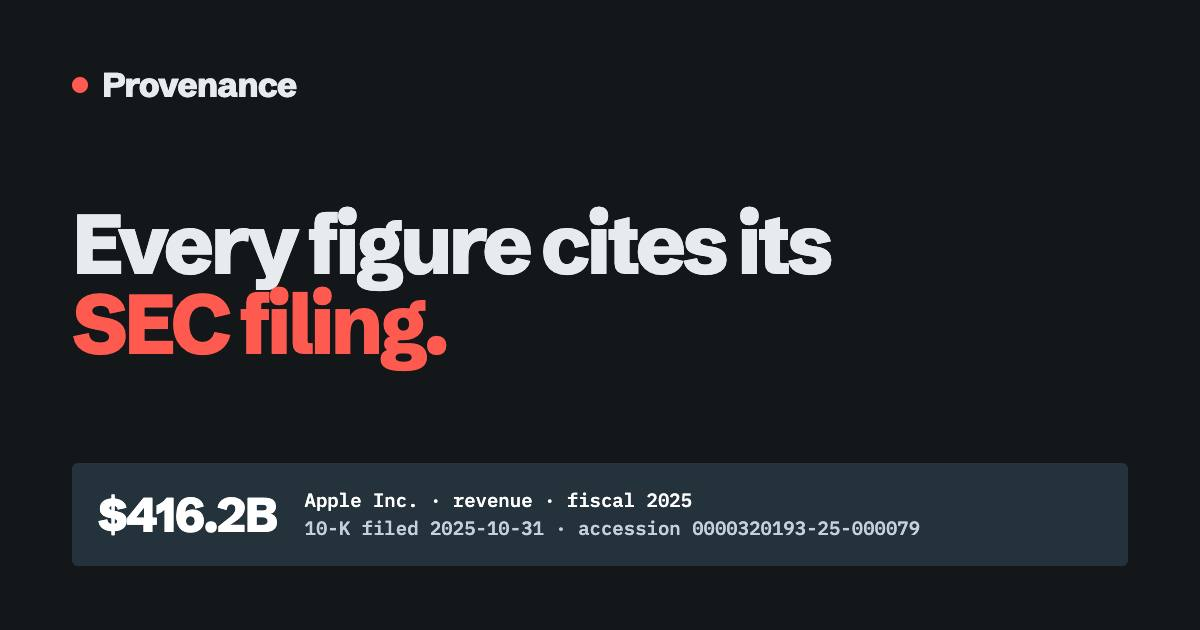
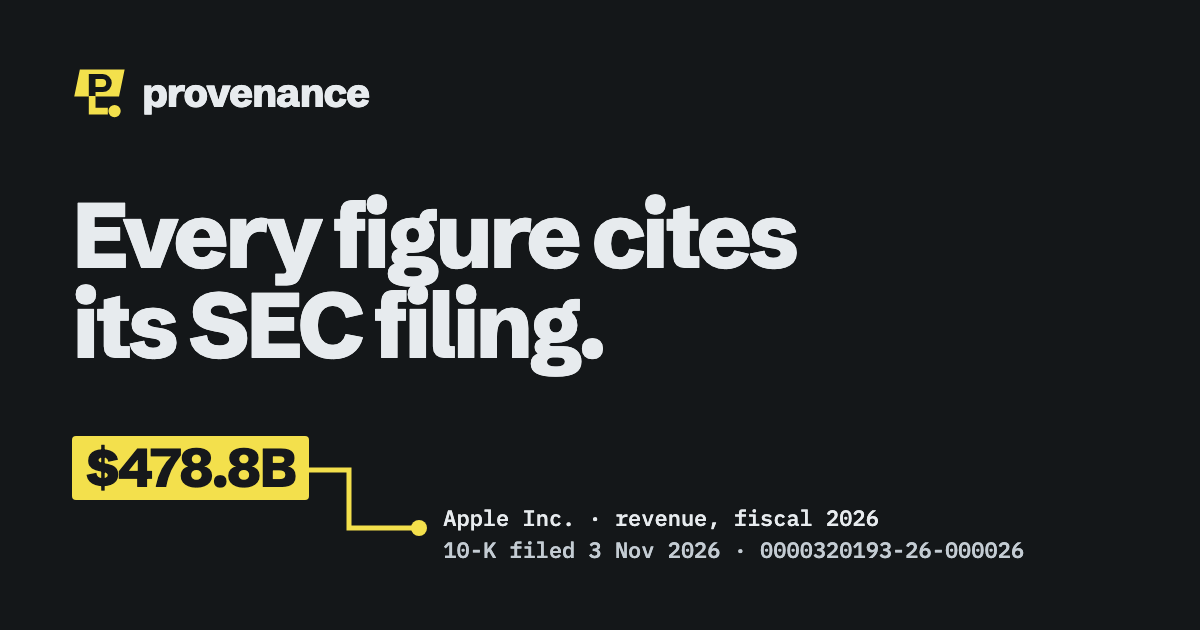
B-3 brand: the link preview rebuilt from a template (scripts/brand/og.html, one highlight on Apple's FY2026 revenue with its leader to the 10-K); the UI check fails any figure drawn in the marker yellow (text or chart label; only the highlight may be yellow) and the Explorer overview runs in all fou

Changed region(s): [[0.0617, 0.6937, 0.9558, 0.9048], [0.0617, 0.3016, 0.7092, 0.6032], [0.0617, 0.0905, 0.3083, 0.181]]

diff --git a/scripts/brand/og.html b/scripts/brand/og.html
@@ -1,0 +1,28 @@
+<!doctype html>
+<!-- The link-preview image (site/img/og.png, 1200×630), brand: Trace. One highlight only, on the figure, with its leader to the filing. Render with scripts/brand/render_og.sh.
+     The figure is real: Apple's fiscal 2026 revenue as the API returns it, cited to its 10-K. -->
+<html lang="en"><head><meta charset="utf-8"><title>og</title>
+<style>
+  @font-face { font-family: 'Schibsted Grotesk'; font-weight: 400 800; src: url('../../site/fonts/schibsted-grotesk-latin-var.woff2') format('woff2'); }
+  @font-face { font-family: 'IBM Plex Mono'; font-weight: 500; src: url('../../site/fonts/ibm-plex-mono-latin-500.woff2') format('woff2'); }
+  * { box-sizing: border-box; margin: 0; }
+  html, body { width: 1200px; height: 630px; background: #141719; color: #e7ebee; font-family: 'Schibsted Grotesk', Arial, sans-serif; overflow: hidden; }
+  .wrap { position: relative; height: 100%; padding: 64px 72px; }
+  .logo { display: flex; align-items: center; gap: 14px; font-weight: 800; font-size: 40px; letter-spacing: -0.03em; }
+  .logo svg { width: 56px; height: 56px; color: #f3e04c; }
+  h1 { margin-top: 70px; font-weight: 800; font-size: 92px; line-height: 0.98; letter-spacing: -0.045em; }
+  .fig { position: absolute; left: 72px; bottom: 64px; display: flex; align-items: flex-start; gap: 0; }
+  .val { font-weight: 800; font-size: 54px; letter-spacing: -0.03em; background: #f3e04c; color: #16181b; padding: 2px 14px; border-radius: 4px; line-height: 1.1; }
+  .lead { width: 120px; height: 70px; margin-top: 30px; }
+  .src { margin: 66px 0 0 14px; font: 500 22px/1.45 'IBM Plex Mono', monospace; color: #c4ccd3; }
+  .src b { color: #e7ebee; font-weight: 500; }
+</style></head>
+<body><div class="wrap">
+  <div class="logo"><svg viewBox="0 0 100 100" aria-hidden="true"><path fill="currentColor" fill-rule="evenodd" d="M14,10H94L84,58H4ZM30,18H55A16,16 0 0 1 55,50H42V58H30ZM42,27H54A7,7 0 0 1 54,41H42Z"/><path fill="currentColor" d="M30,57H42V78H64V90H30ZM65,84a11,11 0 1 0 22,0a11,11 0 1 0 -22,0Z"/></svg>provenance</div>
+  <h1>Every figure cites<br>its SEC filing.</h1>
+  <div class="fig">
+    <span class="val">$478.8B</span>
+    <svg class="lead" viewBox="0 0 120 70" aria-hidden="true"><path d="M0,4H40V62H108" fill="none" stroke="#f3e04c" stroke-width="5"/><circle cx="110" cy="62" r="8" fill="#f3e04c"/></svg>
+    <p class="src"><b>Apple Inc. · revenue, fiscal 2026</b><br>10-K filed 3 Nov 2026 · 0000320193-26-000026</p>
+  </div>
+</div></body></html>

diff --git a/docs/brand.md b/docs/brand.md
@@ -1,0 +1,74 @@
+# Brand: Trace
+
+Chosen by the owner on 24 Nov 2026, from three directions (Hallmark, Accession, Trace). The direction cards and the working are in `provenance-review/brand/`; the guidelines kit (logo files, tokens, seal sheet) is in `provenance-review/brand/kit/`.
+
+**The idea.** An analyst marks a figure in a 10-K and draws a leader to where it came from. The logo is that gesture: a chisel-tip highlight with the P knocked out, whose stem leaves the highlight and turns, as a leader does, to land on a dot (the source). The highlight is the brand's one moment: when a figure is marked, it is because you can follow it to its filing.
+
+## Logo
+
+- **Symbol:** the highlight, the P, the leader and the dot, on a 100-unit grid, in one colour (`site/shell/mark.svg`). There is no outline version and no gradient.
+- **Wordmark:** `provenance`, lower case, Schibsted Grotesk 800, tracking −0.03em. The header draws the symbol at 1.45 times the wordmark's size, with a 0.42em gap.
+- **Colour:** `--mark`: marker yellow on dark grounds (Dark, Terminal), and ink on light ones (Light, Ledger). It is never yellow on a light ground.
+- **Clear space:** the dot's diameter on every side. **Minimum size:** 20 px for the symbol with the wordmark, and 16 px for the favicon mark.
+- **Accessible name:** the header link is "Provenance home". The symbol is `aria-hidden`.
+- **Don't:**
+  - recolour the P or the dot separately;
+  - add a tick, star, ring or "verified" mark;
+  - put the symbol in a circle;
+  - set the wordmark in capitals.
+
+## Favicon and icons (all in `site/shell/`, linked by `scripts/sync_site_shell.py`)
+
+- `favicon.svg`: only the highlight and the source dot, aligned to the 16 px pixel grid (the highlight is rows 1–8, the dot rows 11–15). It is ink in a light browser scheme and marker yellow in a dark one.
+- `favicon-32.png` and `site/favicon.ico` (16 and 32): the marker mark on an ink tile, which reads on either tab colour.
+- `apple-touch-icon.png` (180): the same tile, square, for iOS to mask.
+- Check 16 px survival in a real browser tab on light and dark after any change. `logo_audit` is **hand-checked (tools blocked)** for now: the brand-identity scripts' Python dependencies could not be installed on this Mac. Nothing in the favicon is thinner than 1 px at 16 px.
+
+## Colour (tokens in `site/shell/shell.css`, one place)
+
+| Token | Dark | Light | Ledger | Terminal | Use |
+|---|---|---|---|---|---|
+| `--accent` | #f3e04c | #f3e04c | #eed43a | #f3e04c | fill behind ink: buttons, the one action |
+| `--accent-ink` | #16181b | #16181b | #16181b | #0d1117 | text on `--accent` |
+| `--accent-hi` | #f3e04c | #6b5d00 | #5f5200 | #f3e04c | the accent as a line: focus, selected tab, latest bar |
+| `--accent-text` | #f3e04c | #6b5d00 | #5f5200 | #f3e04c | links and current-page text |
+| `--marker` / `--marker-ink` | #f3e04c / #16181b | #f3e04c / #16181b | #eed43a / #16181b | #f3e04c / #0d1117 | the highlight only |
+| `--mark` | #f3e04c | #16181b | #1f1c17 | #f3e04c | the logo and the seal |
+| `--warn` | #f0883e | #a34a07 | #9a4a12 | #f0883e | warnings: orange, never amber |
+
+Rules, each checked by a test or the UI audit:
+
+1. Yellow is a fill behind ink, or the marker on a dark ground. On light grounds the accent becomes marker deep (olive) as a line or as text (`tests/integration/test_brand.py`).
+2. **The marker is never a figure's own colour.** It may only sit behind a figure as the highlight, with `--marker-ink` on it. In practice that is the hover on a figure link that opens its filing, and selection. `scripts/ui_checks/check.mjs` fails any figure, in text or as a chart label, drawn in the marker yellow.
+3. Yellow never means up or down. Changes stay `--good` and `--bad`, and only on flows.
+4. `--warn` is orange, so a warning never meets the marker.
+5. Brand hexes appear only in `site/shell/`. Pages read tokens (`test_brand_colours_are_defined_only_in_the_shell`).
+
+## Type
+
+- Schibsted Grotesk (display and the wordmark), IBM Plex Sans (reading, in Ledger and Terminal), IBM Plex Mono (figures in Terminal, code, accession numbers), and Newsreader 600 (Ledger headings).
+- All are self-hosted under the SIL Open Font License. The licence files are in `site/fonts/`. The brand adds no font.
+
+## The company seal
+
+- Each company page and the Explorer's company header carry a small seal, drawn by `site/shell/seal.js` from the CIK. It is an open trace: a highlight chip, a leader with one to three square turns, and a dot. It is the logo's gesture at the size of a mark.
+- It is **decorative**: `aria-hidden`, with no letters, no figures, and nothing that reads as a grade, rating or certification. Only the path's shape varies.
+- It is drawn in `--mark`, at about 1em beside the company name (40 px in the Explorer, 30 px on phones).
+- Two companies may get similar seals. That is fine, because the seal identifies nothing.
+
+## Link previews
+
+- `site/img/og.png` (1200×630) is rendered from `scripts/brand/og.html` by `scripts/brand/render_og.sh`. It has one highlight, on a real figure (Apple's fiscal 2026 revenue), with its leader to the 10-K that reports it. Update the figure and its accession together.
+
+## Motion (B-4, next)
+
+- The brand interaction: when a figure opens its provenance card, the highlight sweeps across the figure and the leader draws to the filing.
+- CSS first. Under `prefers-reduced-motion` the highlight appears without the sweep.
+
+## Pre-launch gates (before the site is public)
+
+- [ ] **dembrandt competitor check:** extract Koyfin, Fiscal.ai, TIKR, Finviz and AlphaSense with dembrandt 0.41.0 (commands in `provenance-review/brand/dembrandt/RUN.md`, for the owner to run), and confirm that no competitor uses a near-identical yellow-and-black mark or palette. If one does, revise before launch.
+- [ ] **Trademark clearance** for the name and the mark (owner).
+- [ ] **Real tab check** of the favicon on light and dark after any icon change.
+- [x] Contrast (WCAG AA) on all four themes at 1440 and 390 (`scripts/ui_checks/check.mjs`).
+- [x] Logo and favicon small-size survival: hand-checked (tools blocked).
